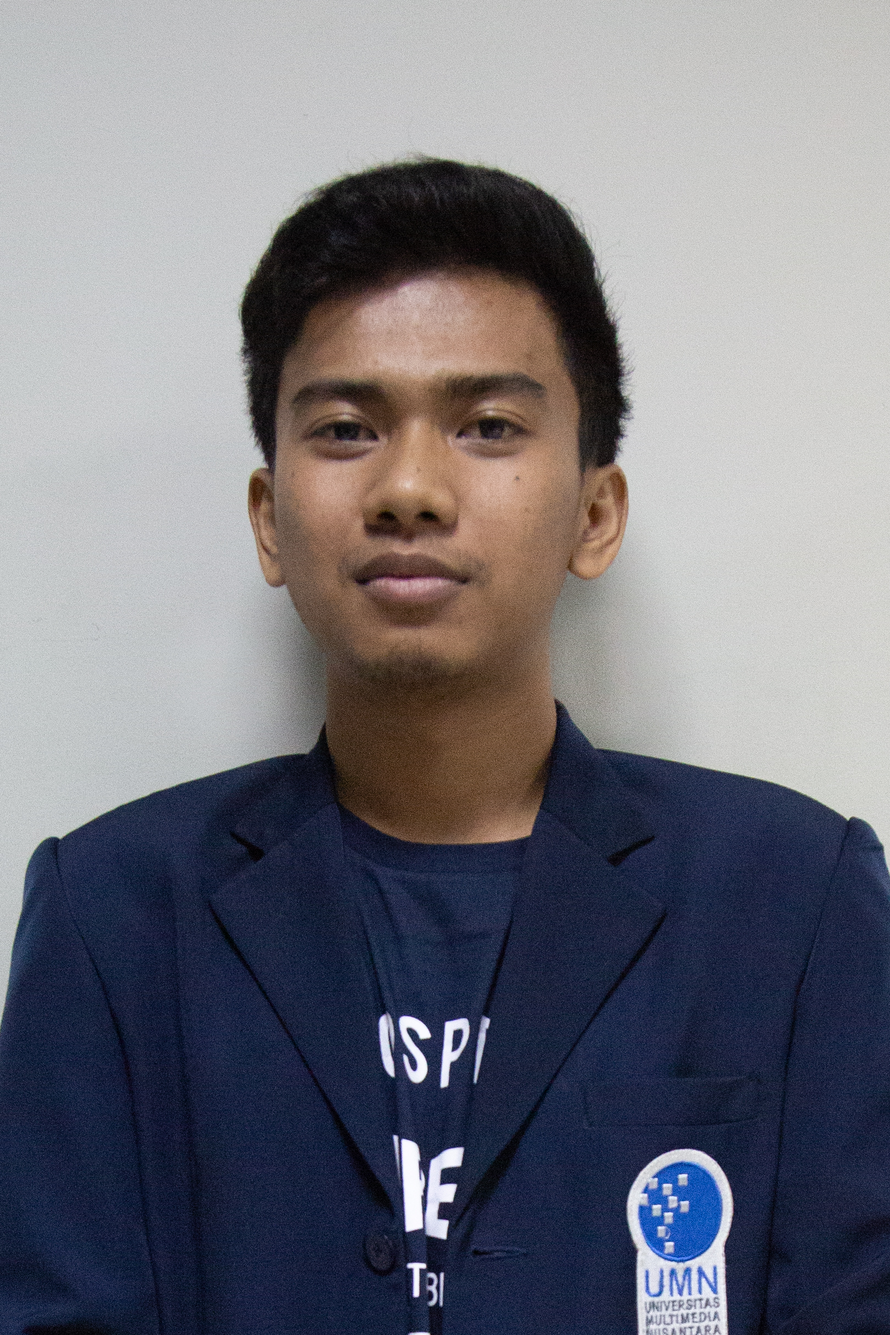
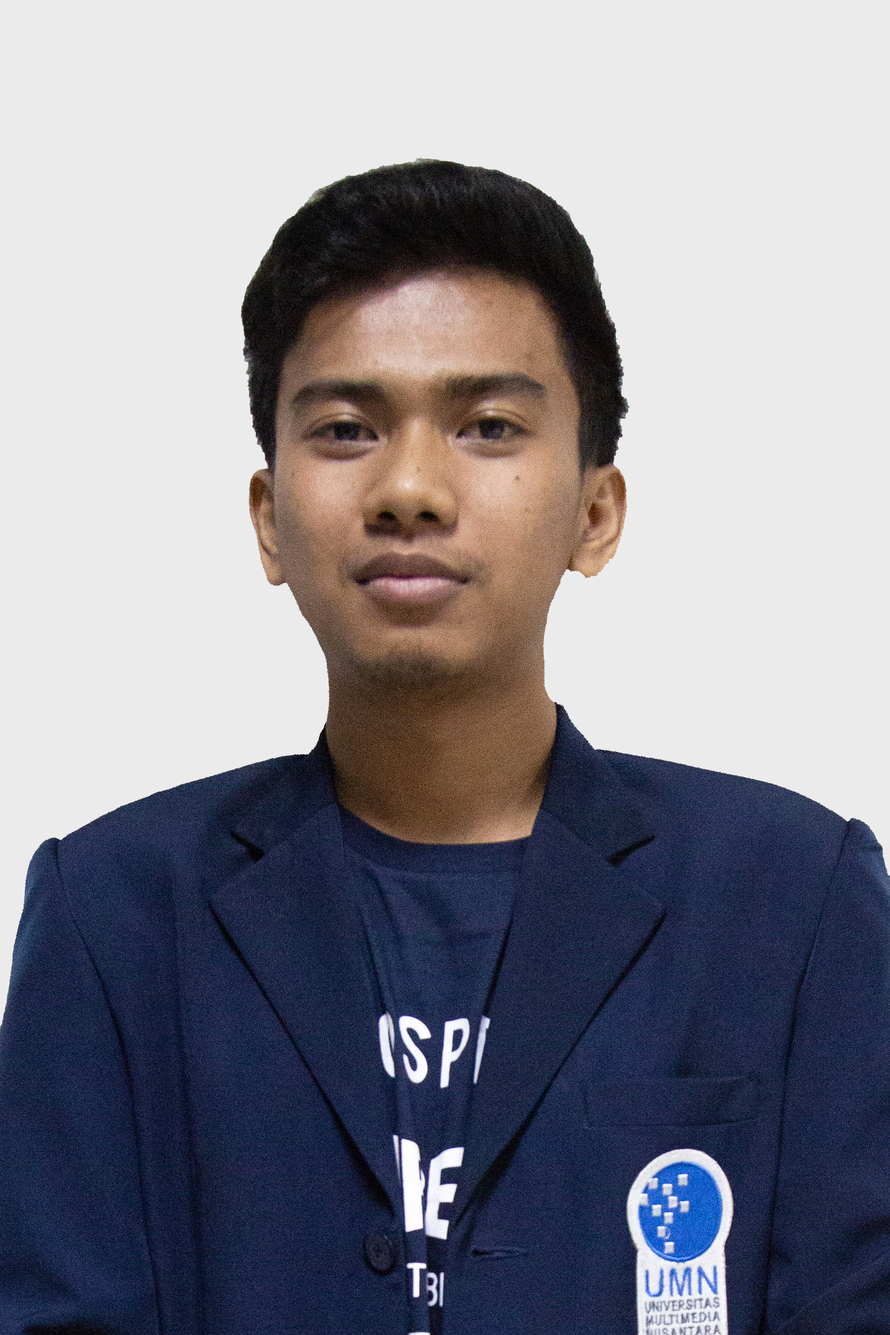
about -KT-

diff --git a/view/pemesanan.html b/view/pemesanan.html
@@ -142,17 +142,17 @@
             </div>
           </form>
         </div>
+        <div class="row padding-16">
+          <button class="btn btn-success col-6" ng-click="addGem()">
+            Pesan
+          </button>
+          <a href="/home" class="col-6">
+            <button type="" value="cancel" class="btn btn-danger col-12">
+              Cancel
+            </button>
+          </a>
+        </div>
       </div>
-    </div>
-    <div class="row padding-16">
-      <button class="btn btn-success col-6" ng-click="addGem()">
-        Pesan
-      </button>
-      <a href="/home" class="col-6">
-        <button type="" value="cancel" class="btn btn-danger col-12">
-          Cancel
-        </button>
-      </a>
     </div>
   </form>
 </div>

diff --git a/view/tentang.html b/view/tentang.html
@@ -44,12 +44,8 @@
 			<div class="photo-container">
 				<div class="row">
 					<div class="col-md-12">
-						<img class="datadiri" src="../assets/about/person.jpg">
-<<<<<<< HEAD
+						<img class="datadiri" src="../assets/about/grant.jpg">
 						<h4>GRANT MATTHEW GUNAWAN</h4>
-=======
-						<h4>GRANT MATTHEW</h4>
->>>>>>> ffe0ac96fc85cdb04e08f5805e79c2ec7f31b284
 						<h5>00000012953</h5>
 					</div>
 				</div>
